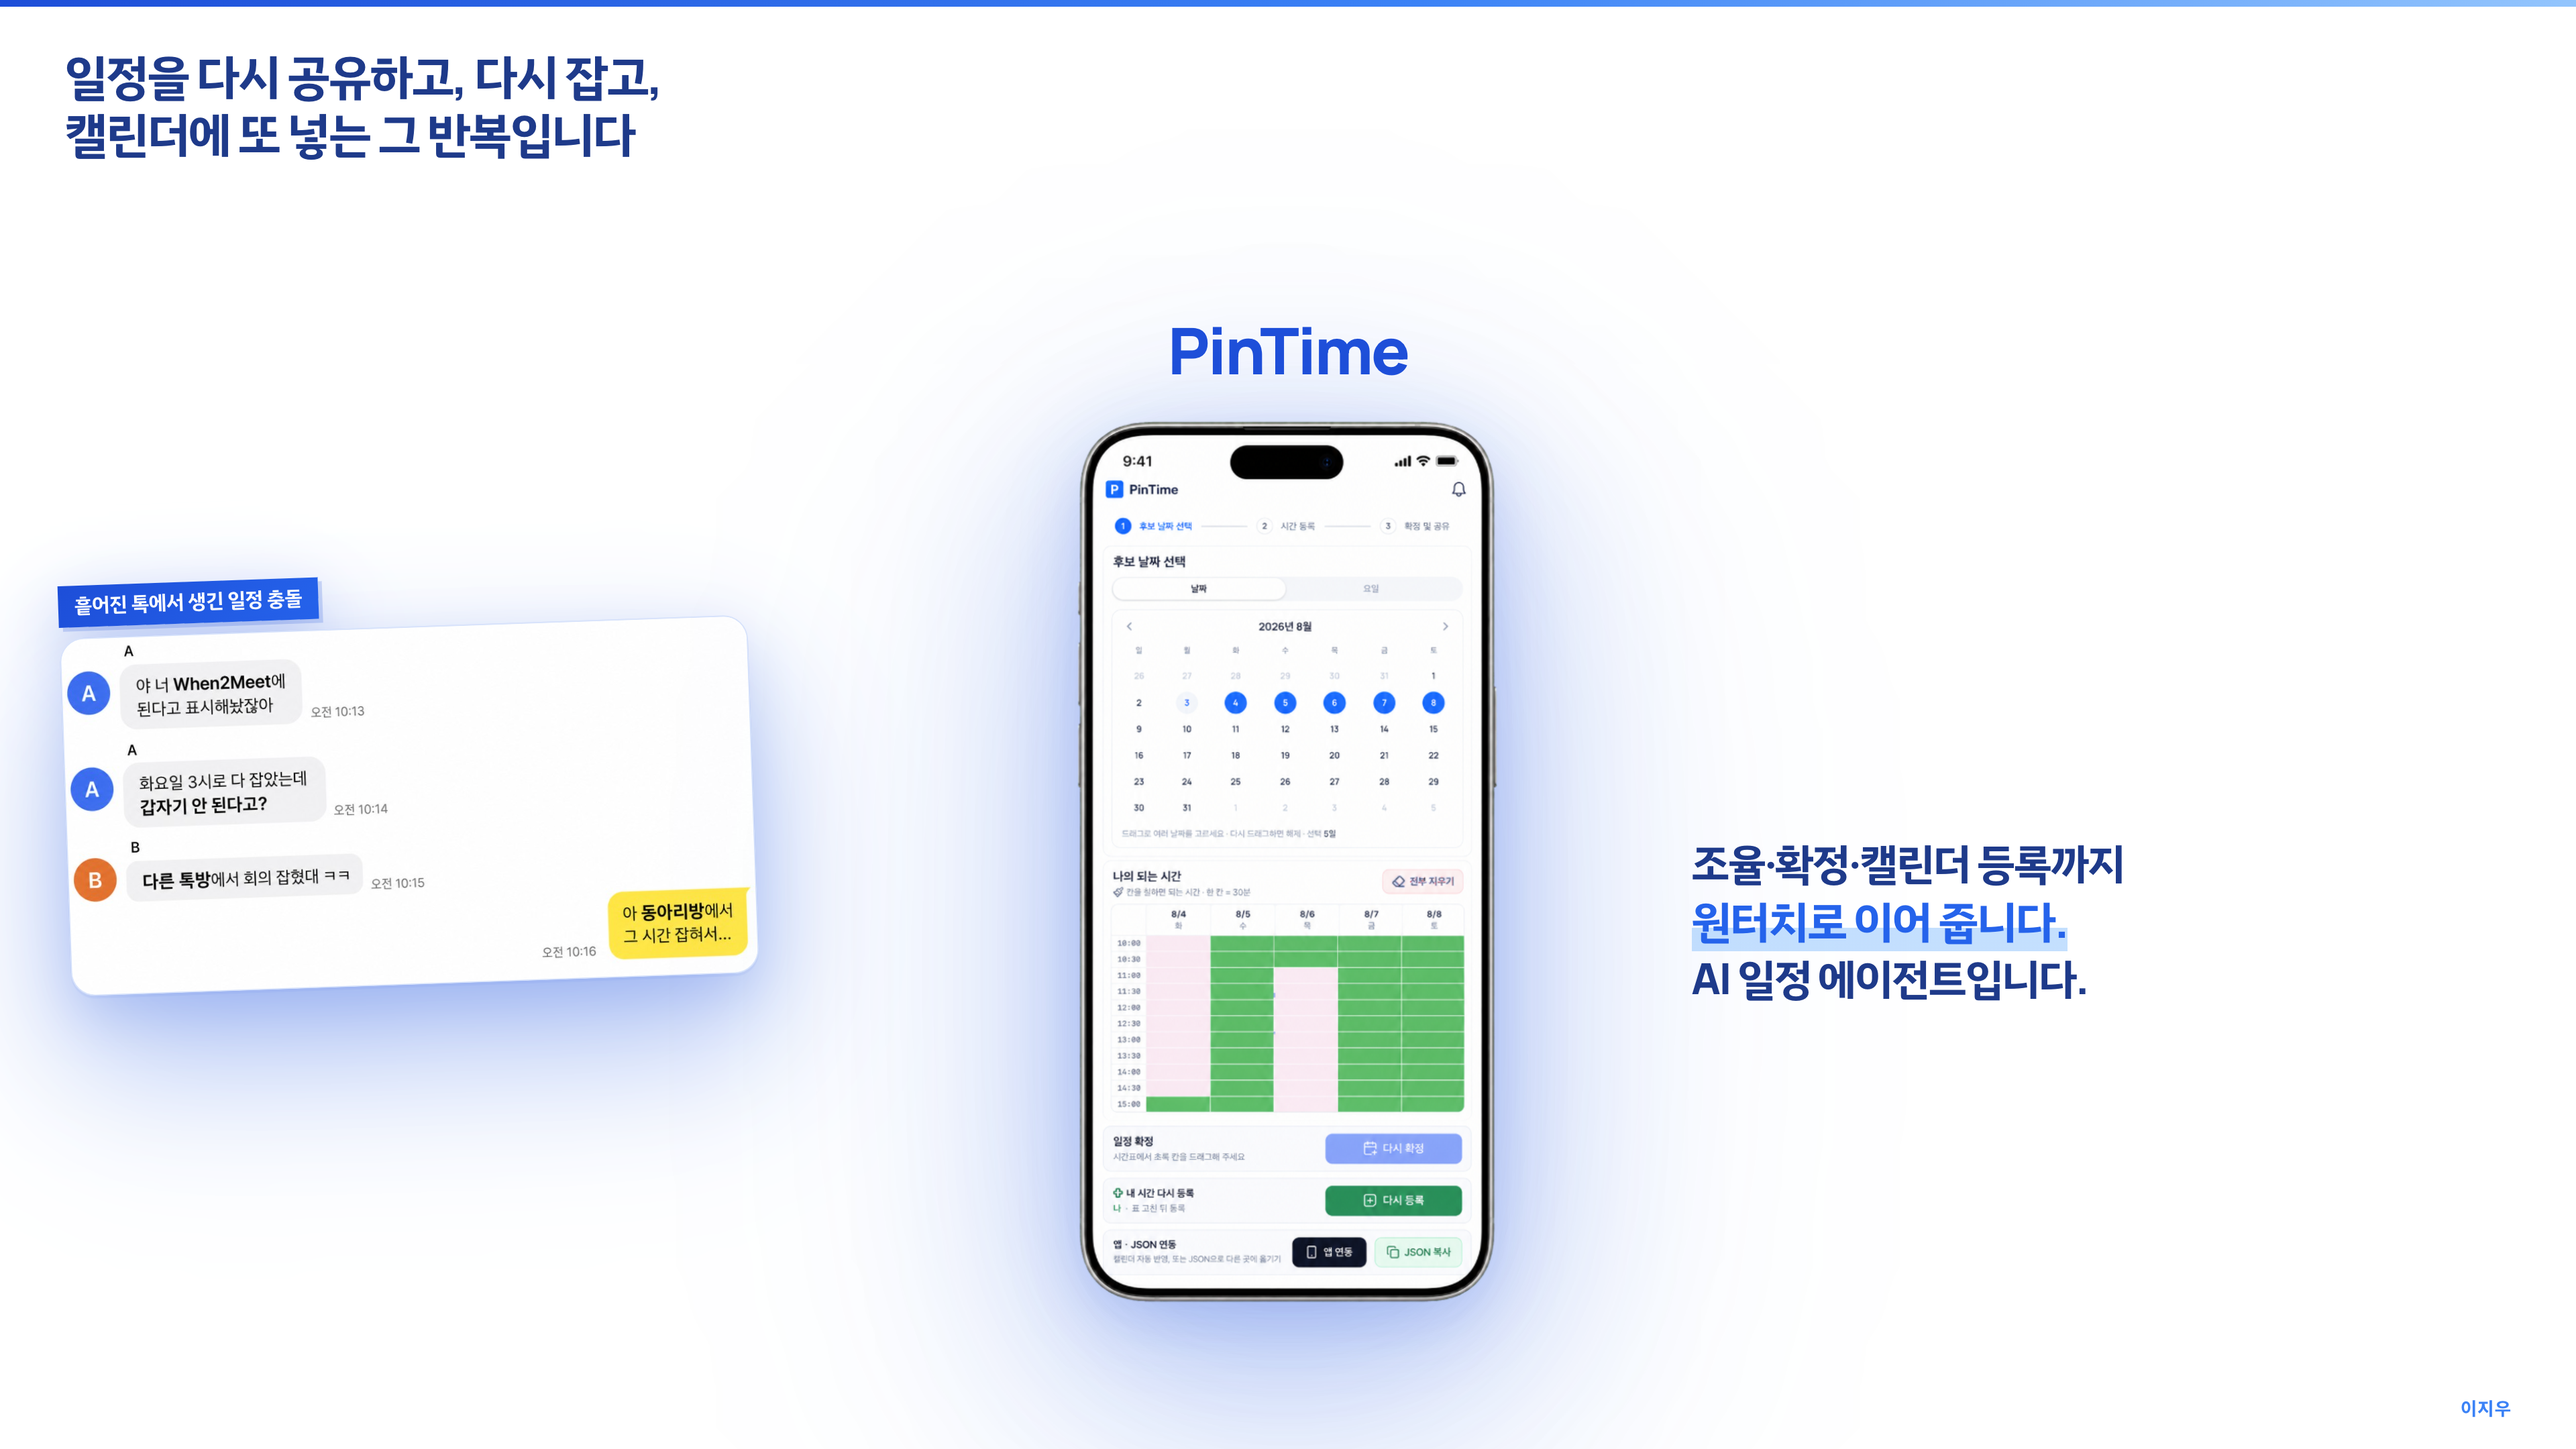
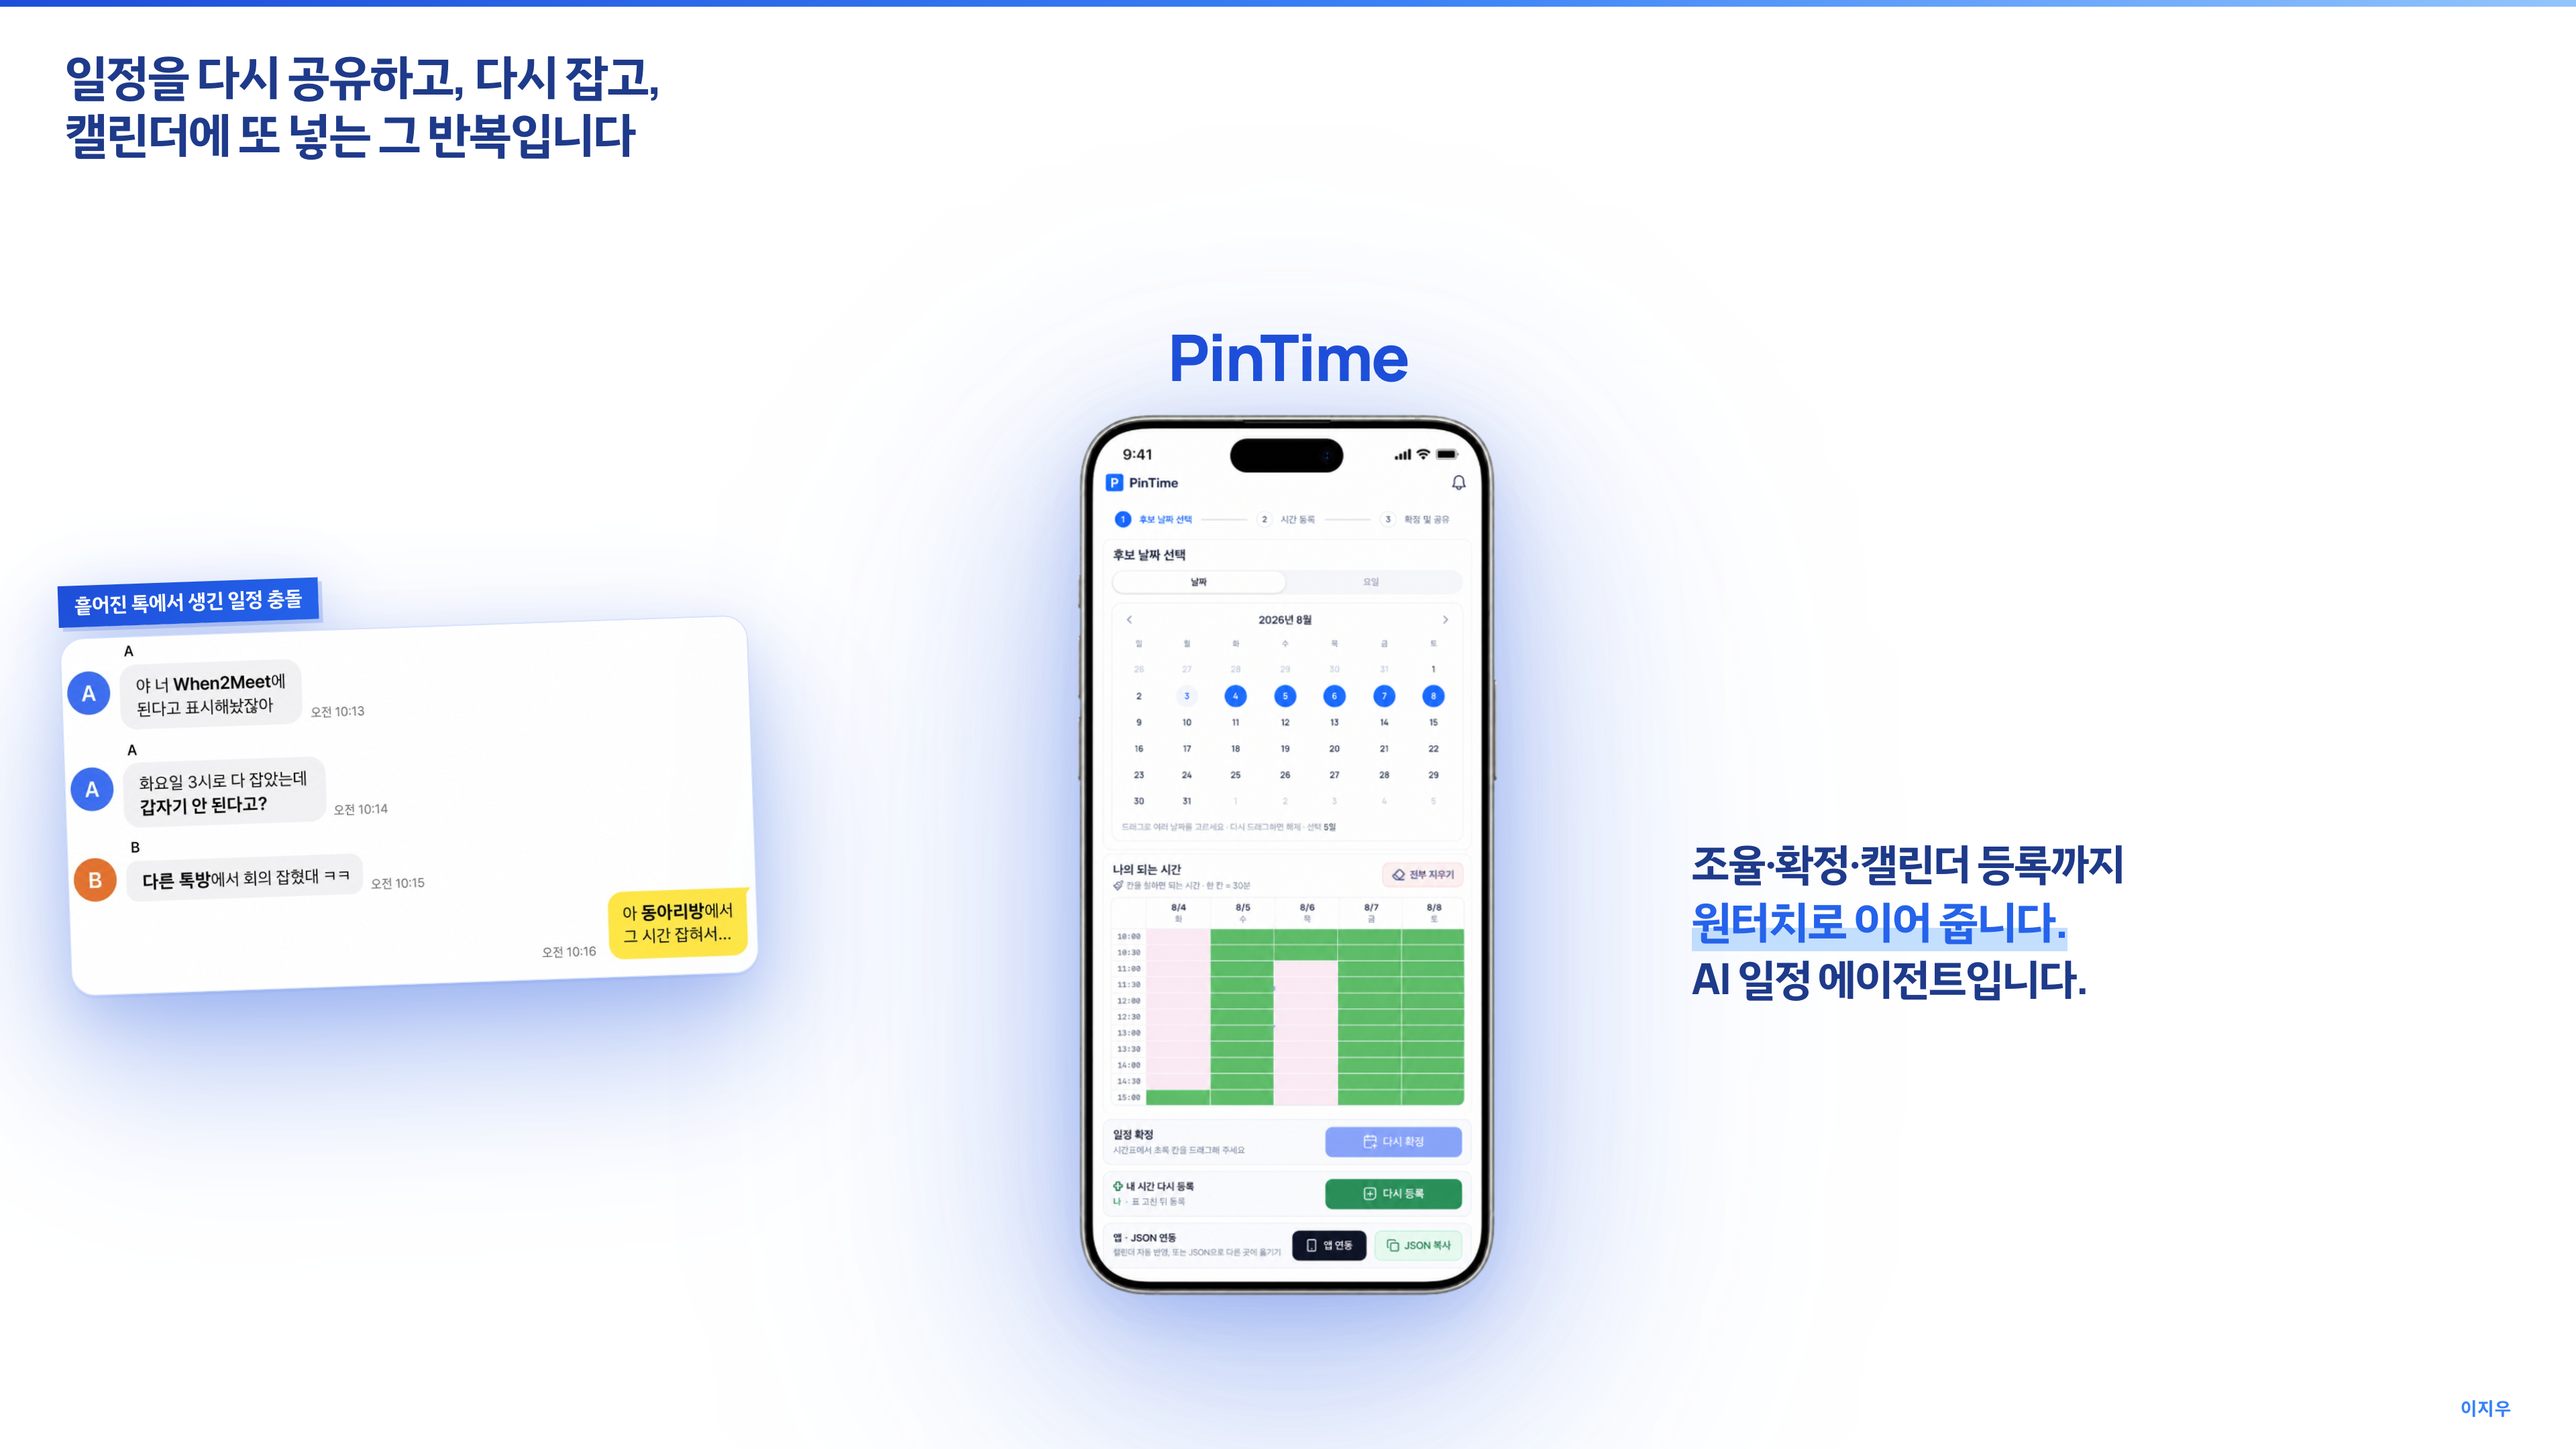
Move only cover PinTime text down with translateY.

diff --git a/public/pitch.html b/public/pitch.html
@@ -1278,9 +1278,9 @@
         color: #1d4ed8;
         line-height: 1;
         margin-bottom: 6px;
-        margin-top: 10px;
         flex-shrink: 0;
         text-align: center;
+        transform: translateY(10px);
       }
 
       .cover-phone {
